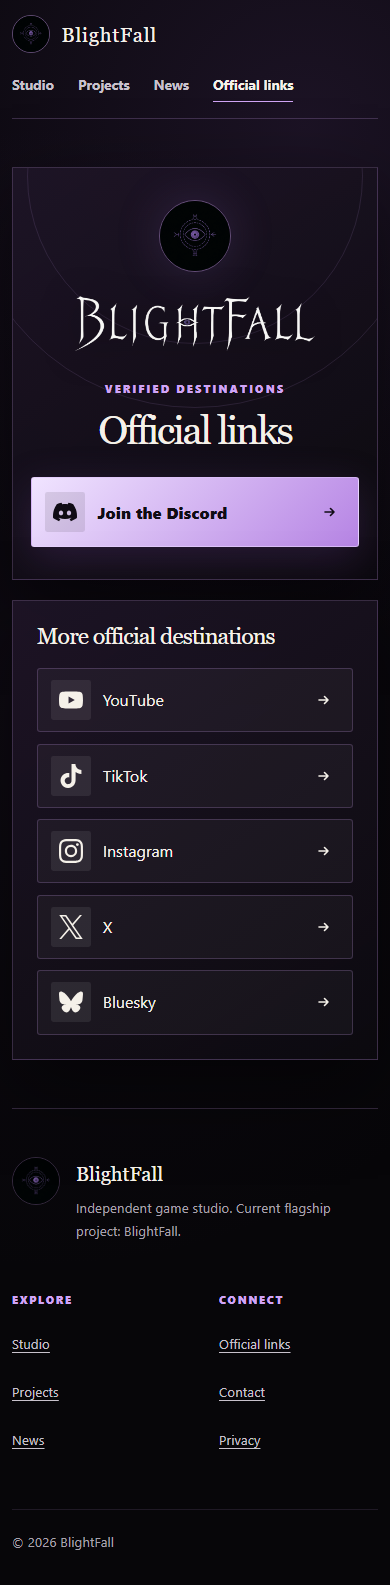
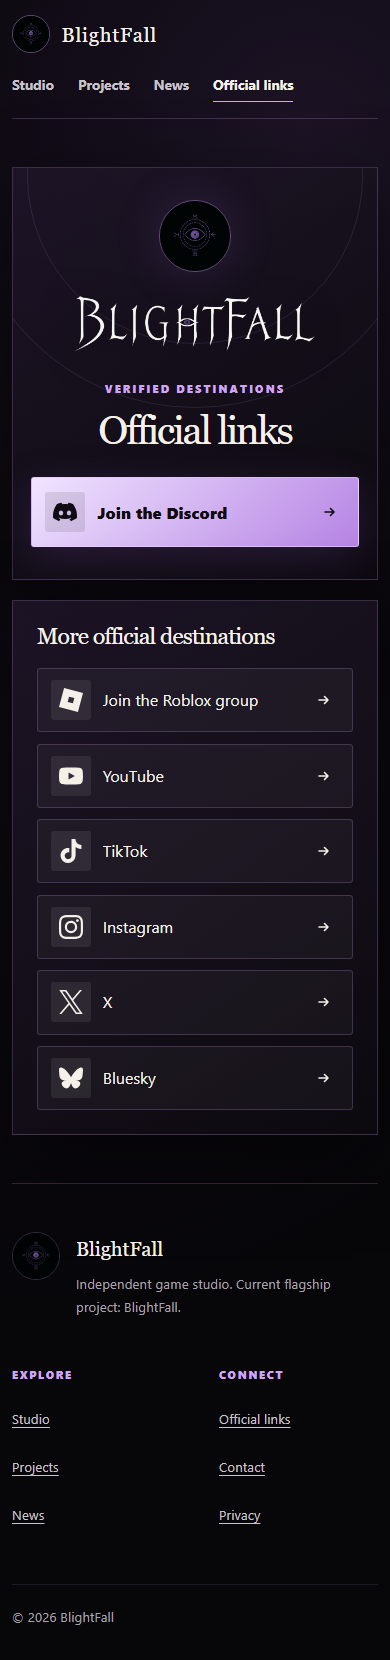
Add official Roblox group link

diff --git a/tests/site.e2e.test.ts b/tests/site.e2e.test.ts
@@ -64,6 +64,10 @@ test('approved social destinations are published and unconfirmed destinations ar
 }) => {
   await page.goto('/links/');
   await expect(page.getByRole('link', { name: 'Join the Discord' })).toHaveCount(1);
+  await expect(page.getByRole('link', { name: 'Join the Roblox group' })).toHaveAttribute(
+    'href',
+    'https://www.roblox.com/share/g/15580589',
+  );
   await expect(page.getByRole('link', { name: 'YouTube' })).toHaveAttribute(
     'href',
     'https://www.youtube.com/@BlightFallRoblox',
@@ -72,7 +76,6 @@ test('approved social destinations are published and unconfirmed destinations ar
   await expect(page.getByRole('link', { name: 'Instagram' })).toHaveCount(1);
   await expect(page.getByRole('link', { name: 'X', exact: true })).toHaveCount(1);
   await expect(page.getByRole('link', { name: 'Bluesky' })).toHaveCount(1);
-  await expect(page.getByRole('link', { name: /Roblox/i })).toHaveCount(0);
   await expect(page.getByRole('link', { name: /latest gameplay/i })).toHaveCount(0);
 });
 

diff --git a/src/config/site.ts b/src/config/site.ts
@@ -93,12 +93,12 @@ export const officialLinks: OfficialLink[] = [
   },
   {
     id: 'roblox',
-    label: 'View BlightFall on Roblox',
-    url: null,
+    label: 'Join the Roblox group',
+    url: 'https://www.roblox.com/share/g/15580589',
     platform: 'roblox',
     icon: 'roblox',
     order: 2,
-    enabled: false,
+    enabled: true,
     presentation: 'secondary',
     analyticsId: 'roblox-group',
   },

diff --git a/tests/site-config.unit.test.ts b/tests/site-config.unit.test.ts
@@ -35,7 +35,7 @@ describe('public site configuration', () => {
       getEnabledLinks()
         .filter((link) => link.id !== 'discord')
         .map((link) => link.id),
-    ).toEqual(['youtube', 'tiktok', 'instagram', 'x', 'bluesky']);
+    ).toEqual(['roblox', 'youtube', 'tiktok', 'instagram', 'x', 'bluesky']);
   });
 
   it('fails safely when launch is selected before the play URL is approved', () => {

diff --git a/ROADMAP.md b/ROADMAP.md
@@ -7,8 +7,8 @@ incorporation, approve a legal entity, or authorize public facts that have not b
 ## Phase 0 — Verified pre-launch link hub
 
 - Retain `/links/` as the permanent official-link destination. **Implemented.**
-- YouTube, TikTok, Instagram, X, and Bluesky are confirmed and enabled. Roblox group/game and
-  trailer/gameplay destinations remain pending confirmation.
+- The Roblox group, YouTube, TikTok, Instagram, X, and Bluesky are confirmed and enabled. The public
+  Roblox game and trailer/gameplay destinations remain pending confirmation.
 - Continue using only approved production assets. **Implemented for the current release.**
 - GitHub Pages is the current static host with automated production deployment from `main`.
 - Approve a privacy-conscious analytics provider and update the privacy page before activation.

diff --git a/README.md b/README.md
@@ -94,7 +94,8 @@ See [Content maintenance](docs/CONTENT_MAINTENANCE.md) for the full safe update 
   exposing usernames or a member list.
 - Categorized general, business, press, support, and privacy email routes are published; no hosted
   contact form or submission storage is active.
-- Roblox group/game and current trailer destinations remain disabled until confirmed.
+- The Roblox group is confirmed and enabled. The public game and current trailer destinations remain
+  disabled until confirmed.
 - Studio-level metadata identifies BlightFall as an independent game studio; game-specific copy
   remains scoped to the flagship pre-alpha Roblox project.
 

diff --git a/docs/MISSING_CONTENT.md b/docs/MISSING_CONTENT.md
@@ -4,7 +4,6 @@ The site intentionally omits every unconfirmed destination instead of publishing
 
 ## Links requiring confirmation
 
-- Roblox group or community URL
 - Public Roblox game URL for the future “Play BlightFall” action
 - Current approved gameplay or trailer URL
 
